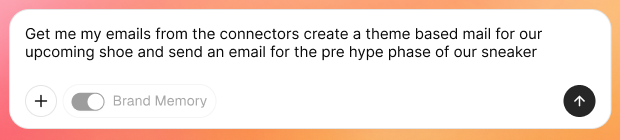
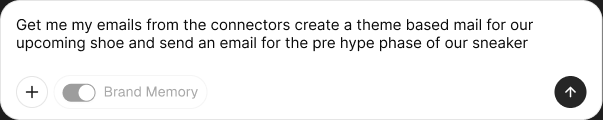
fix(shopos): Two doors uses the proper individual Figma exports
Replaces the earlier low-res cropped snippets (which read as
placeholders inside dead gradient space) with the dedicated single-
component exports from Figma:

  Chat pill   Figma 210:9547  ->  public/images/shopos/two-doors-chat.png    (603x120 trimmed)
  Kanban grid Figma 210:9549  ->  public/images/shopos/two-doors-kanban.png  (1188x636 trimmed)

Both PNGs were exported with a rgb(30,30,30) canvas margin which I
trimmed off so they land directly on the peach CSS gradient with
no dark halo. The kanban shows the full four-column board (Scheduled
/ Need Attention / In Progress / Completed) with realistic content,
clipped at the right edge to suggest more board off-frame; the chat
shows the full pill with the +, Brand Memory toggle, and send arrow.

The interim JSX rebuild (chat pill in JSX + a KanbanCard component)
is reverted — the cards are back to gradient panel + heading + body
+ img per card, no orphan component refs.

Total image weight for this section now ~75KB combined (chat ~10KB,
kanban ~65KB), still well under the 1.5MB a full-frame Figma paste
would have been.

diff --git a/app/work/shopos/page.jsx b/app/work/shopos/page.jsx
@@ -903,7 +903,7 @@ export default function ShopOSCaseStudy() {
           <div className="mt-12 grid grid-cols-1 gap-6 md:mt-16 md:grid-cols-2">
             {/* LEFT card: Chat / Cowork */}
             <article
-              className="relative overflow-hidden rounded-3xl p-7 md:p-9"
+              className="relative flex flex-col overflow-hidden rounded-3xl p-7 md:p-9"
               style={{
                 background:
                   "linear-gradient(160deg, #fcdece 0%, #fcb88f 45%, #fc8870 75%, #fc6972 100%)",
@@ -917,12 +917,14 @@ export default function ShopOSCaseStudy() {
                 or let the orchestrator recruit the team into one
                 thread.
               </p>
-              <div className="mt-8 md:mt-10">
+              {/* Chat input pill, sourced from Figma 210:9547 (trimmed
+                  of the dark canvas margin). */}
+              <div className="mt-auto pt-10">
                 <img
                   src="/images/shopos/two-doors-chat.png"
-                  alt="A single chat input pill reading 'Get me my emails from the connectors, create a theme based mail for our upcoming shoe, and send an email for the pre-hype phase of our sneaker' with a Brand Memory toggle and a send arrow."
-                  width={620}
-                  height={140}
+                  alt="A chat input pill reading 'Get me my emails from the connectors, create a theme-based mail for our upcoming shoe and send an email for the pre-hype phase of our sneaker' with a + attach button, Brand Memory toggle, and a send arrow."
+                  width={603}
+                  height={120}
                   className="block h-auto w-full"
                   loading="lazy"
                   decoding="async"
@@ -932,7 +934,7 @@ export default function ShopOSCaseStudy() {
 
             {/* RIGHT card: Jobs / Kanban */}
             <article
-              className="relative overflow-hidden rounded-3xl p-7 md:p-9"
+              className="relative flex flex-col overflow-hidden rounded-3xl p-7 md:p-9"
               style={{
                 background:
                   "linear-gradient(160deg, #fcdece 0%, #fcb88f 45%, #fc8870 75%, #fc6972 100%)",
@@ -946,12 +948,17 @@ export default function ShopOSCaseStudy() {
                 <em>Needs Attention &rarr; In Progress &rarr; Completed</em>
                 , tracked in the Tasks tab for bigger pieces.
               </p>
-              <div className="mt-6 md:mt-8">
+              {/* Kanban board (four columns: Scheduled, Need Attention,
+                  In Progress, Completed) sourced from Figma 210:9549.
+                  Overflow on the right is intentional — the Completed
+                  column is partially visible at the edge to suggest
+                  there's more board off-frame. */}
+              <div className="mt-auto pt-8">
                 <img
                   src="/images/shopos/two-doors-kanban.png"
-                  alt="Kanban columns showing two task cards in the Scheduled and Need Attention columns: a TOFU Static Ad assigned to Monica with a 1m 52s timer, a Pulling ad performance from Meta Ads task assigned to Gavin, and a Creative Brief task assigned to Richard."
-                  width={650}
-                  height={325}
+                  alt="A four-column kanban board: Scheduled (TOFU Static Ad assigned to Monica), Need Attention (Pulling ad performance from Meta Ads with Gavin, Creative Brief with Richard, Ad Copy Variants with Dinesh), In Progress (A/B Test Setup with Erlich), and Completed (Hook Test, Video Storyboard, Learning Log, BOFU Retargeting Ad)."
+                  width={1188}
+                  height={636}
                   className="block h-auto w-full"
                   loading="lazy"
                   decoding="async"
